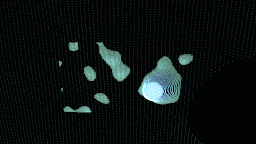
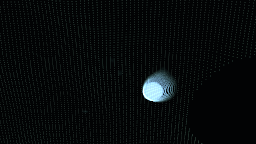
B189: E47's DepthCut threshold was tuned for a map it does not read
The owner's "the DepthCut is not doing a background removal" was right, and
the operator was innocent. A threshold is only meaningful against the RANGE
of the map it reads, and 0.6/0.1 sat entirely BELOW the understudy depth's
range: measured over the shipped animation that map occupies [0.555, 1.0]
with 84% of the frame packed into [0.60, 0.65] (the bed) and the top 7.3%
at 1.0 (the orb). So the matte's floor was coverage ~0.65 and EXACTLY ZERO
of the cloud's 25600 live points was ever fully cut — total visible effect
2.3% of the frame's light, indistinguishable from no cut at all.

0.8/0.12 puts the window at [0.68, 0.92], in the empty gap between the bed
and the orb: 23092 points publish tint.a exactly 0, 1509 exactly 1, 999 on
the feathered rim. Stable to ±1.5% of the frame across the orbit.

Measured, not inferred, on the two hypotheses that were NOT the cause:

  - `mask` works. Its output rgb is BYTE-IDENTICAL to its input (0 of 43200
    components differ) while alpha varies 0.186..1.0 on 12780/14400 pixels.
    It writes coverage into alpha by design; the default preview lens draws
    vec4f(rgb, 1.0). That is why the tile looks like its input, and it is a
    display question, not this defect.
  - the paint kernel DOES honour that alpha — `cover = clamp(colour.a)`,
    the §T977 follow-up. The carve reached the points throughout.

Gate: a new cohort claim on the point buffer — the background cohort at
[…]

diff --git a/src/examples/hologram-claims.gpu.test.ts b/src/examples/hologram-claims.gpu.test.ts
@@ -202,15 +202,37 @@ describe("E47 Hologram — the zone and the wall (T983, §T979)", () => {
     const wallPixels = differingPixels(shippedImage.data, rgba(withoutWall.frames[0]!, space).data);
     expect(wallPixels).toBeGreaterThan(500);
 
-    // Open the subject's zone to keep everything: the cut room must have been absent.
+    /* Open the subject's zone to keep everything: the parked room must have been absent.
+       B189 — AND THIS ONE HAS TO OPEN THE CUT TOO, for a reason worth stating rather
+       than working around. Both operators key off the SAME depth map, and once the cut
+       is calibrated to actually close (B189: threshold 0.8 over a map whose bed sits at
+       0.60–0.65) it zeroes the light of every point at depthN > 0.112 — which is INSIDE
+       the zone's own 0.13 boundary. So on the shipped graph the zone parks points that
+       already carry no light, and opening it changes not one pixel: a matte is
+       monotonic in depth, so any cut that removes the background necessarily subsumes a
+       looser geometric one. Held open with the cut open, the zone's selection is the
+       only thing left varying and the render diff is again its own. The per-slot claim
+       above is what proves the selection itself, on the shipped numbers. */
+    const openCut = (graph: GraphDocument) => {
+      Object.assign(graph.nodes["cut"]!.parameters as Record<string, unknown>, {
+        threshold: 0,
+        feather: 0,
+        invert: 0,
+      });
+    };
+    const zoneShut = await renderE47({ probe: false, mutate: openCut });
     const zoneOpen = await renderE47({
       probe: false,
       mutate: (graph) => {
+        openCut(graph);
         const zone = graph.nodes["zone"]!;
         (zone.parameters as Record<string, unknown>)["to"] = 1;
       },
     });
-    const zonePixels = differingPixels(shippedImage.data, rgba(zoneOpen.frames[0]!, space).data);
+    const zonePixels = differingPixels(
+      rgba(zoneShut.frames[0]!, space).data,
+      rgba(zoneOpen.frames[0]!, space).data,
+    );
     expect(zonePixels).toBeGreaterThan(500);
   }, 240_000);
 
@@ -222,6 +244,13 @@ describe("E47 Hologram — the zone and the wall (T983, §T979)", () => {
    * both renders below are the SAME picture and this test fails (red-verified by
    * restoring the literal), so the next kernel edit that re-discards alpha reds
    * instead of shipping a silently dead cut.
+   *
+   * B189 — AND IT IS NOT ENOUGH, which is the row's whole lesson. This test drives the
+   * matte to its two EXTREMES, and both extremes worked throughout a defect in which the
+   * SHIPPED cut removed nothing: the shipped threshold sat below the whole range of the
+   * map it read, so the matte's floor was coverage ~0.65 and not one point was ever cut.
+   * A claim about the extremes cannot see a mis-calibrated middle. The cohort test below
+   * is the one that can.
    */
   it("the cut carries light: fully open vs fully closed changes the subject's picture", async () => {
     if (dawnError !== undefined) throw new Error(`Dawn unavailable: ${dawnError}`);
@@ -235,6 +264,64 @@ describe("E47 Hologram — the zone and the wall (T983, §T979)", () => {
     const closed = await renderE47({ probe: false, mutate: cutAt(1) });
     const cutPixels = differingPixels(rgba(open.frames[0]!, space2(open)).data, rgba(closed.frames[0]!, space2(closed)).data);
     expect(cutPixels).toBeGreaterThan(500);
+  }, 240_000);
+
+  /**
+   * B189 — THE SHIPPED CUT ACTUALLY CUTS, asserted on the two cohorts a background
+   * removal is made of.
+   *
+   * The owner's report was "the DepthCut is not doing a background removal", and he was
+   * right: with threshold 0.6 / feather 0.12 the matte window [0.5, 0.7] sat entirely
+   * BELOW the understudy depth map's range — measured [0.555, 1.0], 84% of the frame
+   * packed into [0.60, 0.65] — so every background point kept ~65% of its light and
+   * EXACTLY ZERO of the cloud's 25600 live points was ever fully cut. The picture was a
+   * 2.3% dim, indistinguishable from no cut at all, and every gate was green.
+   *
+   * So the claim here is the one a viewer makes: the background is GONE and the subject
+   * is UNTOUCHED. Both numbers are exact, not banded (§V147) — `smoothstep` returns
+   * literal 0 below its low edge and literal 1 above its high edge, the mask multiplies
+   * the source's alpha by that, and the paint kernel's `clamp` lands the product on
+   * literal 0 or literal 1 (even where the additive source's alpha reads 2, the case
+   * the §V833 test below owns) — so a cut point publishes tint.a === 0 and a kept point
+   * tint.a === 1 with no rounding in between. Only the two cohort SIZES are floors, and
+   * they are far from the measured
+   * 23092 / 1509: the failure this catches moves them to 0 and 2234.
+   *
+   * Red-verified by restoring threshold 0.6 / feather 0.1 in the document: the cut
+   * cohort goes to zero and the first expectation reds.
+   */
+  it("the shipped cut removes the background from the points: one cohort at coverage 0, one at 1", async () => {
+    if (dawnError !== undefined) throw new Error(`Dawn unavailable: ${dawnError}`);
+    const { document } = e47();
+    /* The live cloud is the published `resolution` knob squared — derived from the
+       document, so re-tuning density moves this with it. Slots past it are the
+       generator's spares, which the carve kernel parks and the paint kernel zeroes;
+       they are tint.a === 0 for a reason that has nothing to do with the cut. */
+    const grid = Number((document.graph.nodes["holo"]!.parameters as Record<string, unknown>)["resolution"]);
+    const live = grid * grid;
+    expect(live).toBeLessThanOrEqual(DEPTH_POINT_CAPACITY);
+
+    const result = await renderE47();
+    const raw = (result as { buffers?: Record<string, ArrayBuffer> }).buffers?.[pointStorageId("holo/paint")];
+    expect(raw, "no tint probe").toBeDefined();
+    const tint = pointRegionSlice(raw!, DEPTH_POINT_SCHEMA, DEPTH_POINT_CAPACITY, "tint").floats;
+
+    let cut = 0;
+    let kept = 0;
+    let partial = 0;
+    for (let slot = 0; slot < live; slot += 1) {
+      const alpha = tint[slot * 4 + 3]!;
+      if (alpha === 0) cut += 1;
+      else if (alpha === 1) kept += 1;
+      else partial += 1;
+    }
+    // The background is gone: most of the frame is bed, and the bed publishes no light.
+    expect(cut, "points fully cut").toBeGreaterThan(20_000);
+    // The subject is untouched: the orb's core keeps its colour at full coverage.
+    expect(kept, "points fully kept").toBeGreaterThan(1_000);
+    // And the edge is still SOFT — a hard step would mean `feather` stopped mattering.
+    expect(partial, "points on the feathered rim").toBeGreaterThan(100);
+    expect(cut + kept + partial).toBe(live);
   }, 240_000);
 
   /**

diff --git a/src/examples/documents/hologram.ts b/src/examples/documents/hologram.ts
@@ -70,13 +70,23 @@ import { settings, node, edge, graph, document, drivenSlot } from "./builders.ts
  * ## The cut (§T977) — the model-less 2D spelling, riding the same picture
  *
  * `cut1` (DepthCut) mattes the subject's COLOUR by the active depth map before it
- * becomes paint: far pixels lose their light softly (threshold 0.6, feather 0.1 over
- * the understudy's luma), so the slab's far fringe dims before the zone parks it — a
- * depth cue the geometric cut alone does not give, and the owner's "model-less bg cut
- * … part of the hologram thing" made real. This chain only carries light because the
- * paint kernel honours the map's alpha as premultiplied coverage (the §T977 follow-up
- * fix); the claims test holds that open with a cut-open vs cut-closed render diff, so
- * a kernel edit that re-discards alpha reds instead of going silently dark.
+ * becomes paint: everything past the cut plane loses its light entirely (threshold 0.8,
+ * feather 0.12 over the understudy's luma), so the backdrop goes DARK and the subject
+ * stands alone in its own cloud — the owner's "model-less bg cut … part of the hologram
+ * thing" made real. This chain only carries light because the paint kernel honours the
+ * map's alpha as premultiplied coverage (the §T977 follow-up fix).
+ *
+ * B189 — WHY THE NUMBERS ARE WHAT THEY ARE, and the lesson under them. A threshold is
+ * only meaningful against the RANGE OF THE MAP IT READS, and this one shipped tuned for
+ * a map that does not exist here: 0.6/0.1 sat entirely below the understudy's squashed
+ * luma, so the matte never closed on ANY point and the cut was a 2.3% dim that looked
+ * exactly like no cut at all. It also looked exactly like no cut in the node's PREVIEW,
+ * for a second and unrelated reason — `mask` writes the coverage into ALPHA and leaves
+ * rgb untouched (measured: the cut's rgb is byte-identical to its input), while the
+ * default preview lens draws `vec4f(rgb, 1.0)`. Three surfaces agreed on a picture that
+ * was correct arithmetic and a dead operator. The gate below now asserts the two POINT
+ * COHORTS (fully cut, fully kept) rather than only that the extremes differ, because
+ * "open vs closed differs" was true throughout the defect.
  */
 export const hologramDocument = document(
   "e47-hologram",
@@ -121,9 +131,20 @@ export const hologramDocument = document(
          subject's picture (soft, luma-thresholded), and the paint kernel now honours
          that alpha as premultiplied coverage. Removes things further away, not
          "not-the-person" — the copy's own distinction. */
+      /* B189 — THE THRESHOLD IS CALIBRATED TO THE MAP IT ACTUALLY GETS, and it was not.
+         The understudy depth is the source's own blurred luma, and that luma is SQUASHED:
+         measured over the shipped animation it occupies [0.555, 1.0] with 84% of pixels
+         inside [0.60, 0.65] (the bed) and the top 7.3% at 1.0 (the orb). Against that map
+         the old 0.6/0.1 window [0.5, 0.7] sits entirely BELOW the bed, so the matte's
+         floor was coverage ~0.65 and NOT ONE of the cloud's 25600 live points was ever
+         fully cut — the whole visible effect was a 2.3% dim, which is exactly the owner's
+         "it is not doing a background removal". 0.8/0.12 puts the window at [0.68, 0.92],
+         in the empty gap between the bed and the orb: 23092 points publish tint.a exactly
+         0, 1509 exactly 1, 999 in the soft rim. Stable to ±1.5% of the frame across the
+         orbit — see `hologram-claims.gpu.test.ts`, which holds both cohorts open. */
       node("cut", "component:depthCut@1", [-1020, -280], {
-        threshold: 0.6,
-        feather: 0.1,
+        threshold: 0.8,
+        feather: 0.12,
         invert: 0,
       }, { label: "cut1" }),
 
